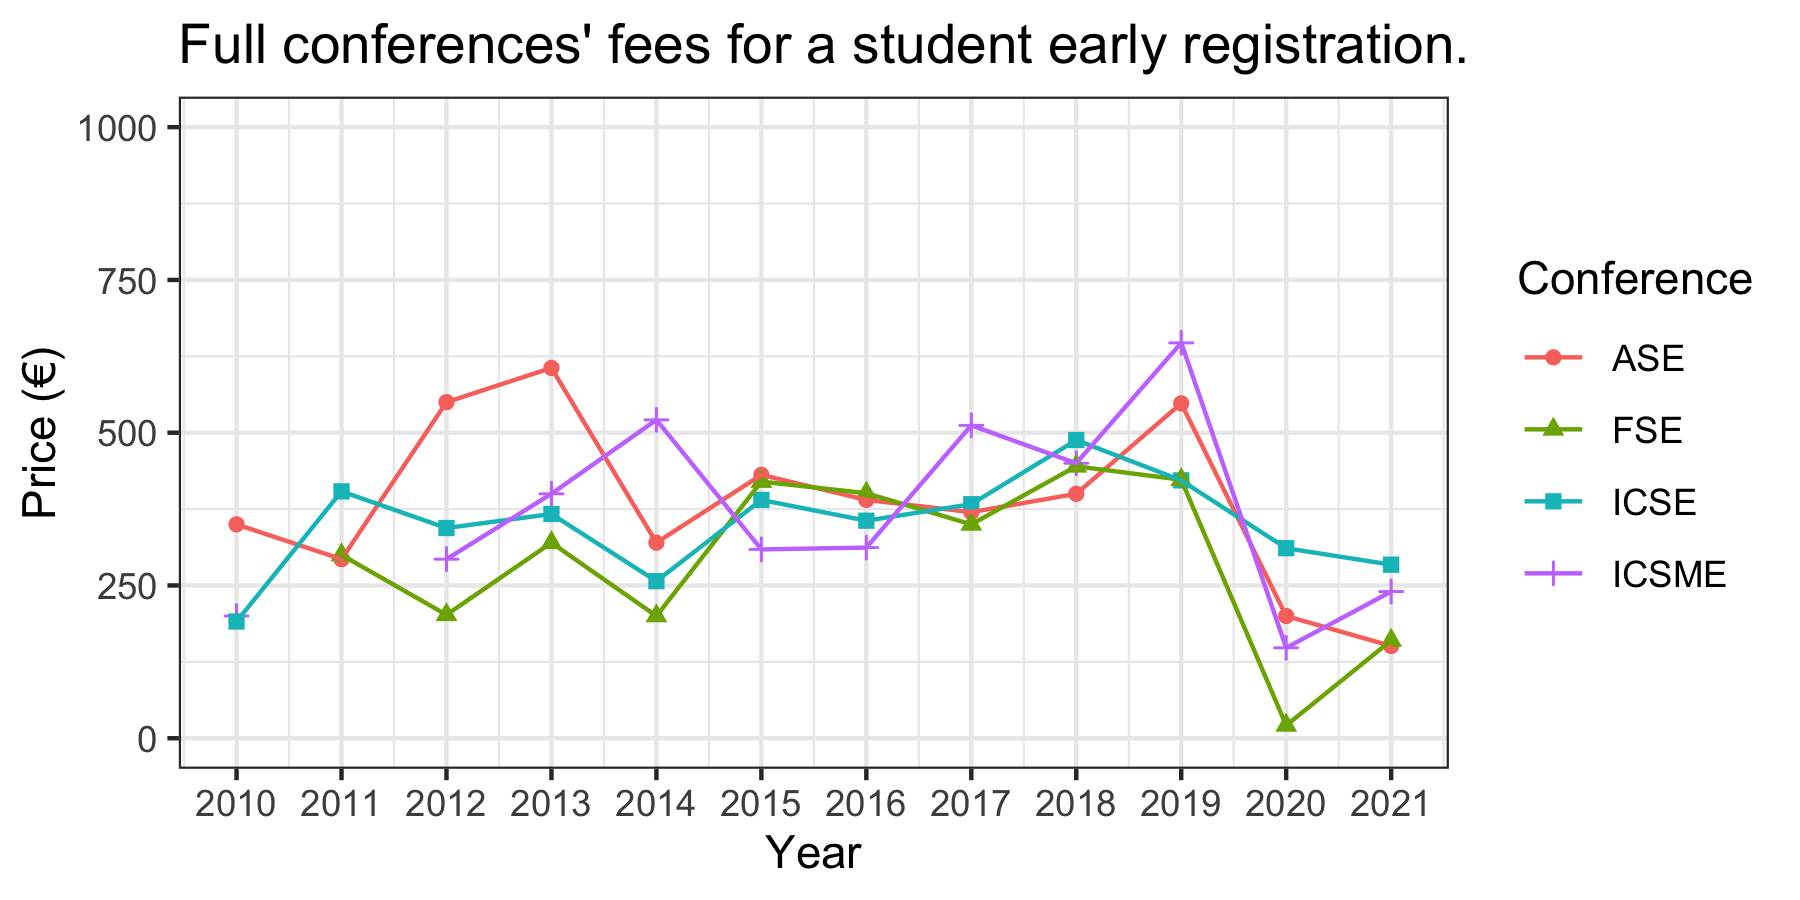
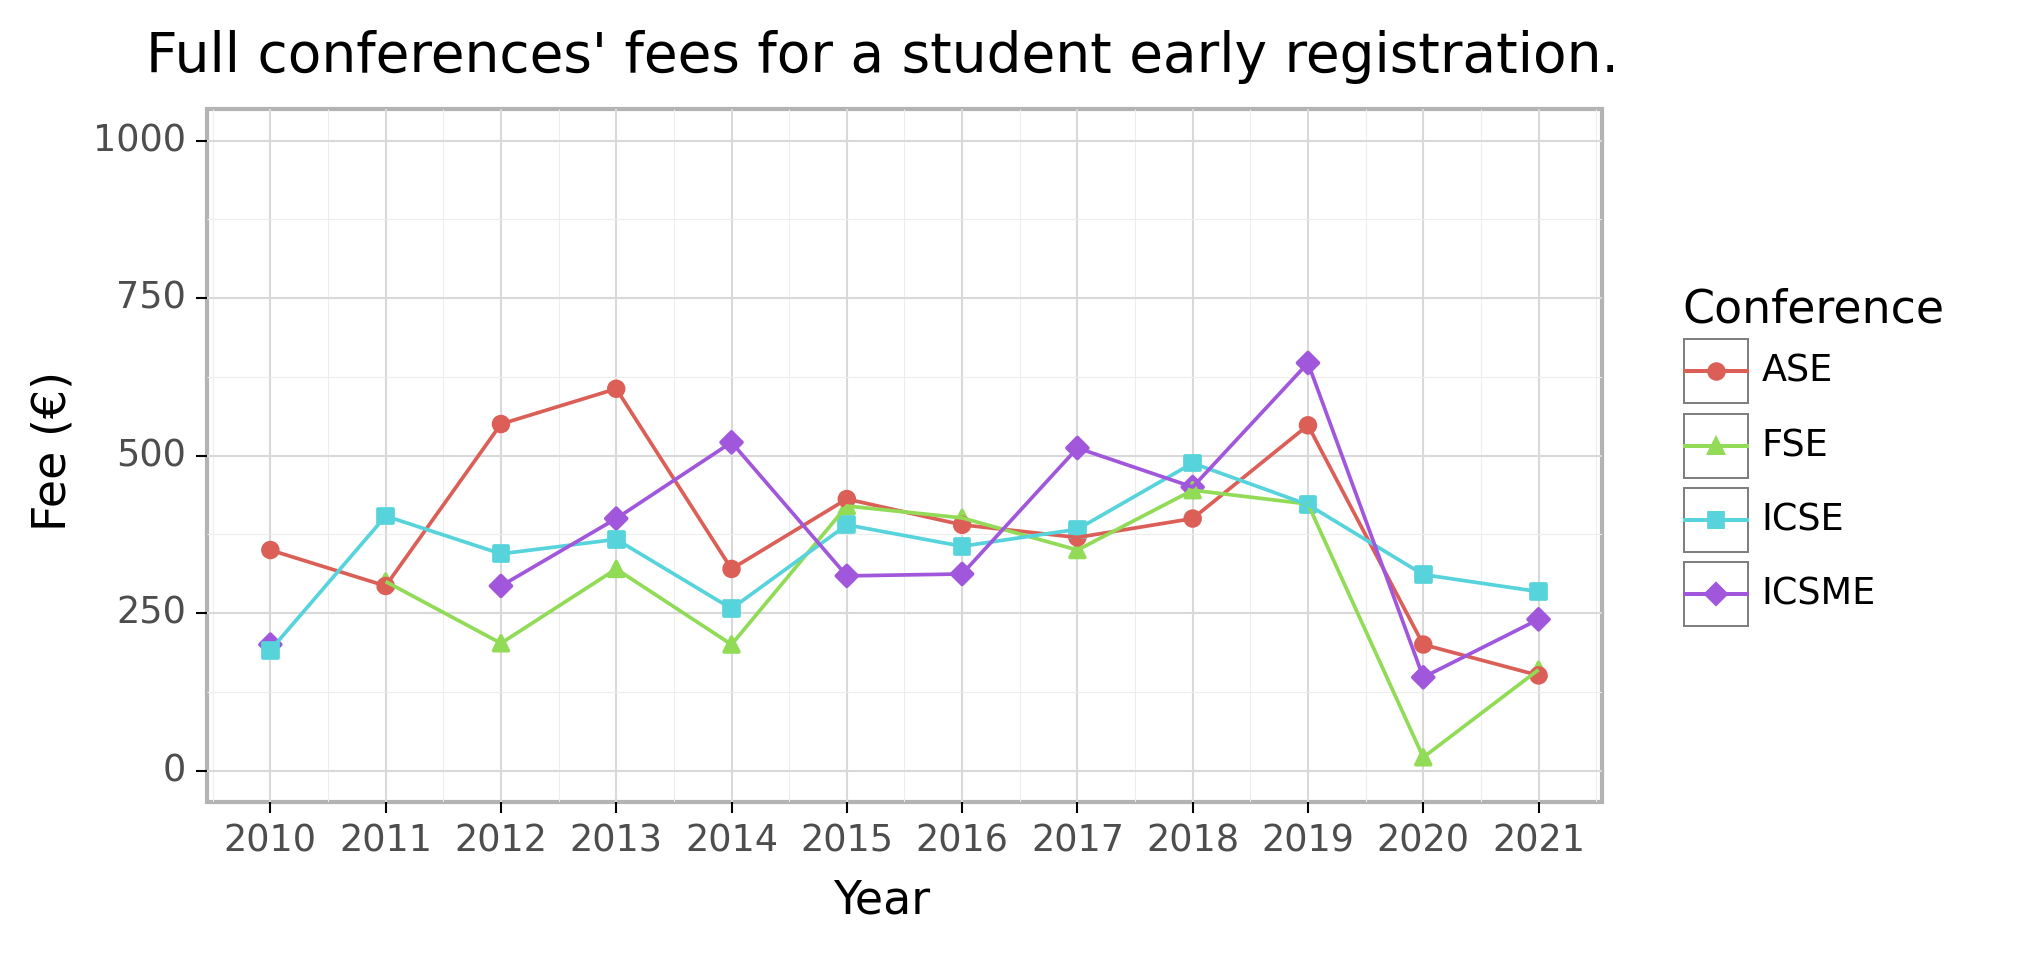
feat: replace R script by a python script

diff --git a/se_prices.py b/se_prices.py
@@ -1,0 +1,26 @@
+#!/usr/bin/env python3
+
+import plotnine as pn
+import pandas as pd
+
+def main():
+    fees = pd.read_csv('se_prices.csv')
+    years = list(range(min(fees['year']), max(fees['year']) + 1))
+    plot_fees(fees, 'Full conferences\' fees for a regular early registration.', 'early_regular', years, 'se_prices_reg.png')
+    plot_fees(fees, 'Full conferences\' fees for a student early registration.', 'early_student', years, 'se_prices_stu.png')
+
+def plot_fees(fees, title, y_axis, years, filename):
+    p = pn.ggplot(fees, pn.aes('year', y_axis, color = 'conference', shape = 'conference')) + \
+        pn.geom_point() + \
+        pn.geom_line() + \
+        pn.labs(title = title, x = 'Year', y = 'Fee (€)') + \
+        pn.ylim(0, 1000) + \
+        pn.theme_light() + \
+        pn.scale_x_continuous(breaks = years) + \
+        pn.scale_colour_discrete(name = 'Conference') + \
+        pn.scale_shape_discrete(name = 'Conference')
+
+    p.save(filename, width = 6, height = 3, dpi=300)
+
+if __name__ == "__main__":
+    main()

diff --git a/README.md b/README.md
@@ -4,7 +4,7 @@ This project aims at displaying the trends of fees for several major software en
 
 ## Methodology
 
-Registration fees are recorded over the years in a CSV file, and a R script produces charts exhibiting the trends.
+Registration fees are recorded over the years in a CSV file, and a Python script produces charts exhibiting the trends.
 
 We record the fees for the full conference, for a IEEE or ACM non-member, for an early registration. The rationale for this choice is that this is the fee a random researcher is most likely to pay to present its paper. All fees are in euros (as converted on the June 4, 2014) for conferences before June 2014 and using the exchange rate at the time of the introducting commit for conferences after June 2014.
 
